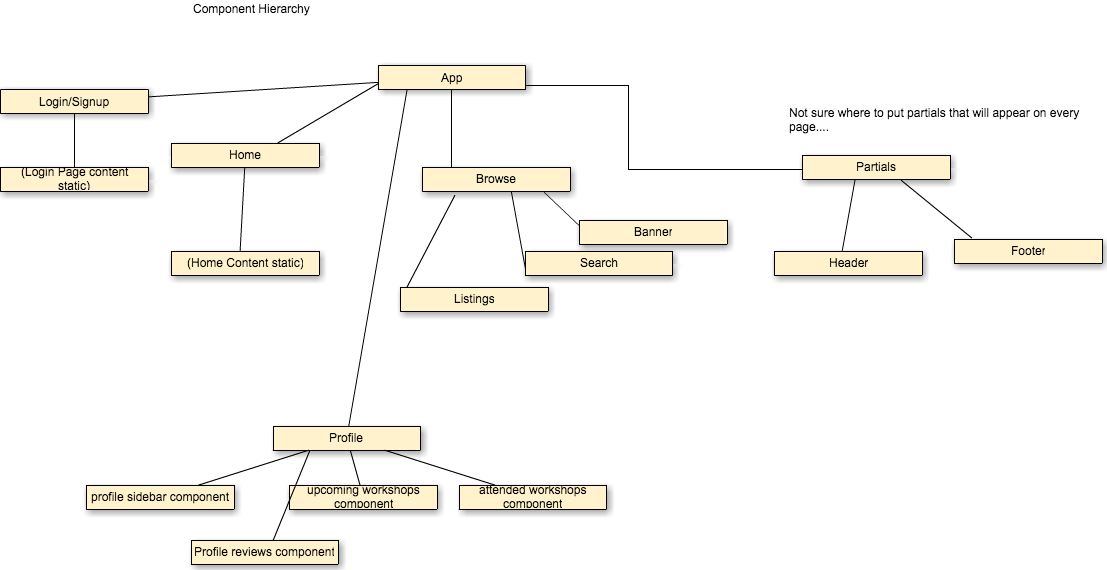
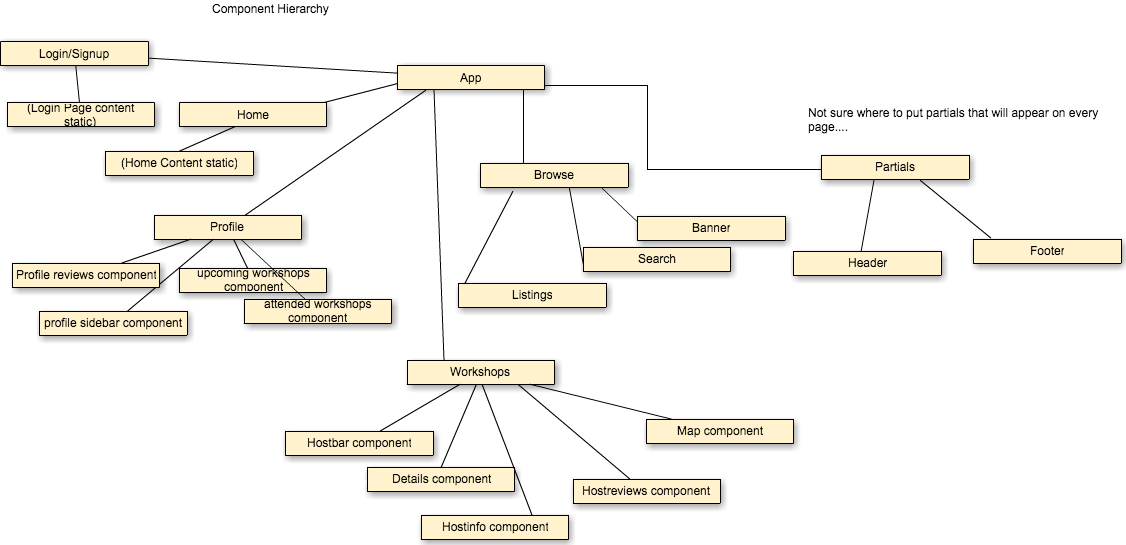
complete rough outline of each phase, update wireframes

diff --git a/project-proposal/README.md b/project-proposal/README.md
@@ -18,10 +18,11 @@ Workshoply is a Ruby on Rails/React.js web app inspired by Feastly, a community 
 - [ ] Read reviews of workshop hosts
 - [ ] View workshops by map location
 - [ ] Sign up for workshops
-- [ ] Sign up for later workshop sessions if upcoming sessions have reached capacity
+- [ ] Prevented from signing up for workshops that are at capacity
 - [ ] Review hosts of previously attended workshops
-- [ ] Edit and update previously written reviews
-- [ ] View descriptive homepage if not logged in
+- [ ] Update profile information
+- [ ] View attended workshops, attended workshops, and reviews on profile page
+- [ ] View descriptive homepage when not logged in
 - [ ] Redirect to browse page if logged in
 - [ ] View other recommended workshops
 - [ ] upload a profile picture
@@ -35,67 +36,57 @@ Workshoply is a Ruby on Rails/React.js web app inspired by Feastly, a community 
 
 ## Implementation Timeline
 
-### Phase 1: User Authentication, Note Model and JSON API (1.5 days)
+### Phase 1: User Authentication, Models and JSON API for users, hosts, and workshops (1.5 days)
 
-In Phase 1, I will begin by implementing user signup and authentication (using
-BCrypt). There will be a basic landing page after signup that will contain the
-container for the application's root React component. Before building out the
-front end, I will begin by setting up a full JSON API for Notes.
+In phase 1, I will begin by building out the models and backend structure for users, workshops, and hosts. With basic models in place, I will create
+rails (BCrypt) user authentication pages. The authentication page will direct users to
+the Browse page, to be built in phase II using data from the workshops index action.
+
+After completing authentication, I will begin setting up JSON api/controllers for users.
 
 [Details][phase-one]
 
-### Phase 2: Flux Architecture and Note CRUD (2.5 days)
+### Phase 2: Seed Data, Browse Page  (2.5 days)
 
-Phase 2 is focused on setting up Flux, the React Router, and the React view
-structure for the main application. After the basic Flux architecture has been
-set up, a Note store will be implemented and a set of actions corresponding to
-the needed CRUD functionality created. Once this is done, I will create React
-views for the Notes `Index`, `IndexItem` and `Form`. At the end of Phase 2,
-Notes can be created, read, edited and destroyed in the browser. Notes should
-save to the database when the form loses focus or is left idle after editing.
-Lastly, while constructing the views I will start using basic bootstrap for
-styling.
+I will start off phase two by adding workshop and user seed data. In adding photo seed data, I will set up polymorphic photo relationships.
+
+Phase 2 is focused on building out the browse (main) page, which will be populated by workshops. In generating this page, I will set up Flux architecture for workshops, including react components for the browse page components as well as the Workshops store. The majority of time will be spent on the browse listing components, which will link to the workshops views that will be built in phase III.
+
+When the basic browse page architecture is in place, I will style it with bootstrap.
 
 [Details][phase-two]
 
-### Phase 3: Notebooks and Tags (2 days)
+### Phase 3: Workshops Pages (2 days)
 
-Phase 3 adds organization to the Notes. Notes belong to a Notebook, which has
-its own `Index` view. Create JSON API for Notebooks. Notes can also now be
-tagged with multiple tags. Users can bring up notes in a separate `SearchIndex`
-view by searching for their tags. Once the tag search is implemented, I will
-extend this to a fuzzy search through every Note's content.
+Phase 3 builds out the workshop pages, and with them, the ability for users to sign up for a workshop.
+In building a workshops page, I will set up relationships between workshops and hosts, and register events when users sign up for a workshop, which will involve setting up clickhandlers and a workshop store. I will work with google maps API to add map locations on each workshop page. Once again, bootstrap will be added once the functionality is in place.
 
 [Details][phase-three]
 
-### Phase 4: Allow Complex Styling in Notes (1 day)
+### Phase 4: Profiles and Reviews (2 days)
 
-Using quill.js, allow for complex styling of notes.
+Phase 4 builds out user profile pages, with react components for the profile page, upcoming events, past events, and reviews. Workshop reviews will persist through to their hosts. (ASK TA--should I create a user store here? Or should adding reviews here just create one in the database, which will then communicate with the respective workshop's store, which in turn, will emit a change event?) I will go back to the browse and workshop pages to add review information to these pages.
 
 [Details][phase-four]
 
-### Phase 5: Reminders and Garbage Collection (1 day)
+### Phase 5: Static pages, additional data (2 days)
 
-Phase 5 introduces two new features. First, users can set reminders on notes
-which will at the time they are set for prompt the user to review and edit the
-given note. In addition, I will implement a feature that asks users to review
-notes once they reach a certain age and ask whether they should be kept,
-archived, or deleted.
+Phase 5 will include the creation of the home page, the footer/navbar, updates to the login page, and other static but css-heavy contributions. The home page will require some new css elements for hash fragments. In addition, logged in users will be redirected from the home to the browse page, and will not view the home page.
+The navbar will need to be aware of login status, so click handlers will need to be added to the log in, register, and log out buttons.  CHECK WITH TAs--SHOULD THIS GO INTO A USER STORE? OR WHERE SHOULD THIS AUTHENTICATION INFO EXIST IN REACT?
+
+Finally, with the main architecture in place, I will add additional seed data, and complete the CSS.
 
 [Details][phase-five]
 
-### Phase 6: Styling Cleanup and Seeding (1 day)
+### Phase 6: Bonus features (Reminaing days)
 
-Bootstrap will have been used to keep things organized up until now, but in
-Phase 6 I will add styling flourishes and make modals out of some elements (like
-the NotebookForm).
+The final phase will be contingent upon how much time there is left in the project.  See bonus features (below)
 
 ### Bonus Features (TBD)
-- [ ] Prettify transitions
-- [ ] Use javascript library for cleaner tag selection
-- [ ] Changelogs for Notes
-- [ ] Pagination / infinite scroll for Notes Index
-- [ ] Multiple sessions
+- [ ] Search feature in Browse Page
+- [ ] Build a new form page for users to apply to become workshop hosts
+- [ ] Expand the reviews system and database--adding review ratings based on hospitality, education, community, fun, new skills learned
+- [ ] Additional CSS transitions
 
 [phase-one]: ./docs/phases/phase1.md
 [phase-two]: ./docs/phases/phase2.md

diff --git a/project-proposal/docs/phases/phase4.md b/project-proposal/docs/phases/phase4.md
@@ -1,4 +1,4 @@
-# Phase 4: Allow Complex Styling in Notes (1 day)
+# Phase 4: Profiles and Reviews (1 day)
 
 ## Rails
 ### Models
@@ -6,13 +6,38 @@
 ### Controllers
 
 ### Views
+* users/show.json.jbuilder
+* reviews/index.json.jbuilder
+
 
 ## Flux
 ### Views (React Components)
+* profile
+  -profile sidebar
+  -upcoming workshops
+  -attended workshops
+  -reviews
+* Workshops
+  -workshops reviews
+* Browse
+  -Browse listing, update reviews section
+
 
 ### Stores
+* User Store
 
 ### Actions
+* ApiActions.addReview
+* ApiActions.receiveReviews
+* ApiActions.receiveUsers
+
+### ApiUtil
+* ApiActions.fetchAllReviews
+* ApiActions.fetchReviewsByUser
+
 
 ## Gems/Libraries
-* Quill.js
+
+
+<!--
+Phase 4 builds out user profile pages, with react components for the profile page, upcoming events, past events, and reviews. Workshop reviews will persist through to their hosts. I will go back to the browse and workshop pages to add review information to these pages. The logic for all of these events will go through the workshops store, with other elements listening for changes to each workshop's reviews. -->

diff --git a/project-proposal/docs/phases/phase3.md b/project-proposal/docs/phases/phase3.md
@@ -1,39 +1,32 @@
-# Phase 3: Notebooks and Tags (2 days)
+# Phase 3: Workshops Pages (2 days)
 
 ## Rails
 ### Models
-* Notebook
-* Tag
-* Tagging
+* signups
 
 ### Controllers
-* Api::NotebooksController (create, destroy, index, show, update)
+
 
 ### Views
-* notebooks/index.json.jbuilder
-* notebooks/show.json.jbuilder
-* tags/show.json.jbuilder
+* workshops/show.json.jbuilder
+
 
 ## Flux
 ### Views (React Components)
-* NotebooksIndex
-  - NotebookIndexItem
-* NotebookForm
-* SearchIndex
+* WorkshopsShow
+  -Hostbar component
+  -details component
+  -hostinfo component
+  -reviews component (empty shell until phase 4)
+  -map component
+
 
 ### Stores
-* Notebook
+* Workshops
 
 ### Actions
-* ApiActions.receiveAllNotebooks
-* ApiActions.receiveSingleNotebook
-* ApiActions.deleteNotebook
+* ApiActions.Register
 
-### ApiUtil
-* ApiUtil.fetchAllNotebooks
-* ApiUtil.fetchSingleNotebook
-* ApiUtil.createNotebook
-* ApiUtil.editNotebook
-* ApiUtil.destroyNotebook
 
 ## Gems/Libraries
+* Google Maps API

diff --git a/project-proposal/docs/phases/phase1.md b/project-proposal/docs/phases/phase1.md
@@ -1,29 +1,33 @@
-# Phase 1: User Authentication, Note Model and JSON API
+# Phase 1: User Authentication, Models and JSON API for users, hosts, and workshops
 
 ## Rails
 ### Models
 * User
-* Note
+* host
+* workshop
+
 
 ### Controllers
-* UsersController (create, new)
+* Api::UsersController (create, new)
 * SessionsController (create, new, destroy)
-* Api::NotesController (create, destroy, index, show, update)
+* Api::WorkshopsController (index, show, update)
 
 ### Views
+* root.html.erb
 * users/new.html.erb
-* session/new.html.erb
-* notes/index.json.jbuilder
-* notes/show.json.jbuilder
+* workshops/index.json.jbuilder
 
 ## Flux
 ### Views (React Components)
+Browse--create the component page to use as landing page, will be built out in later phase.
 
 ### Stores
 
 ### Actions
+ApiActions.receiveAllUsers
 
 ### ApiUtil
+ApiUtil.fetchAllUsers
 
 ## Gems/Libraries
 * BCrypt

diff --git a/project-proposal/docs/phases/phase5.md b/project-proposal/docs/phases/phase5.md
@@ -1,35 +1,15 @@
-# Phase 5: Reminders and Garbage Collection
-
-## Rails
-### Models
-* Reminder
-
-### Controllers
-* Api::RemindersController (create, destroy, index, show, update)
-
-### Views
-* reminders/index.json.jbuilder
+# Phase 5: Static pages, additional data
 
 ## Flux
 ### Views (React Components)
-* RemindersIndex
-  - ReminderIndexItem
-* ReminderShow
-* ReminderForm
-
-### Stores
-* Reminder
+* Navbar/header
+* footer
+* home
 
 ### Actions
-* ApiActions.receiveAllReminders
-* ApiActions.receiveSingleReminder
-* ApiActions.deleteReminder
+* ApiActions.receiveLoggedIn
+* ApiActions.redirectloggedin
 
 ### ApiUtil
-* ApiUtil.fetchAllReminders
-* ApiUtil.fetchSingleReminder
-* ApiUtil.createReminder
-* ApiUtil.updateReminder
-* ApiUtil.destroyReminder
 
 ## Gems/Libraries

diff --git a/project-proposal/docs/phases/phase2.md b/project-proposal/docs/phases/phase2.md
@@ -1,7 +1,8 @@
-# Phase 2: Flux Architecture and Note CRUD (2 days)
+# Phase 2: Seed Data, Browse Page (2 days)
 
 ## Rails
 ### Models
+* Photos
 
 ### Controllers
 
@@ -9,24 +10,18 @@
 
 ## Flux
 ### Views (React Components)
-* NotesIndex
-  - NotesIndexItem
-* NoteForm
+* Browse
+  - BrowseBanner
+  - BrowseListing
 
 ### Stores
-* Note
 
 ### Actions
-* ApiActions.receiveAllNotes
-* ApiActions.receiveSingleNote
-* ApiActions.deleteNote
+* ApiActions.receiveAllWorkshops
 
 ### ApiUtil
-* ApiUtil.fetchAllNotes
-* ApiUtil.fetchSingleNote
-* ApiUtil.createNote
-* ApiUtil.editNote
-* ApiUtil.destroyNote
+* ApiUtil.fetchAllWorkshops
+* ApiUtil.fetchSingleWorkshop
 
 ## Gems/Libraries
 * Flux Dispatcher

diff --git a/project-proposal/docs/views.md b/project-proposal/docs/views.md
@@ -22,5 +22,5 @@
 [home]: ./wireframes/home_component_wireframe.png
 [login]: ./wireframes/login_signup_wireframe.png
 [profile]: ./wireframes/profile_component_wireframe.png
-[workshops]: ./wireframes/workshops_component_wireframe.png
+[workshop]: ./wireframes/workshops_component_wireframe.png
 [component-heirarchy]: ./wireframes/component_heirarchy.png
